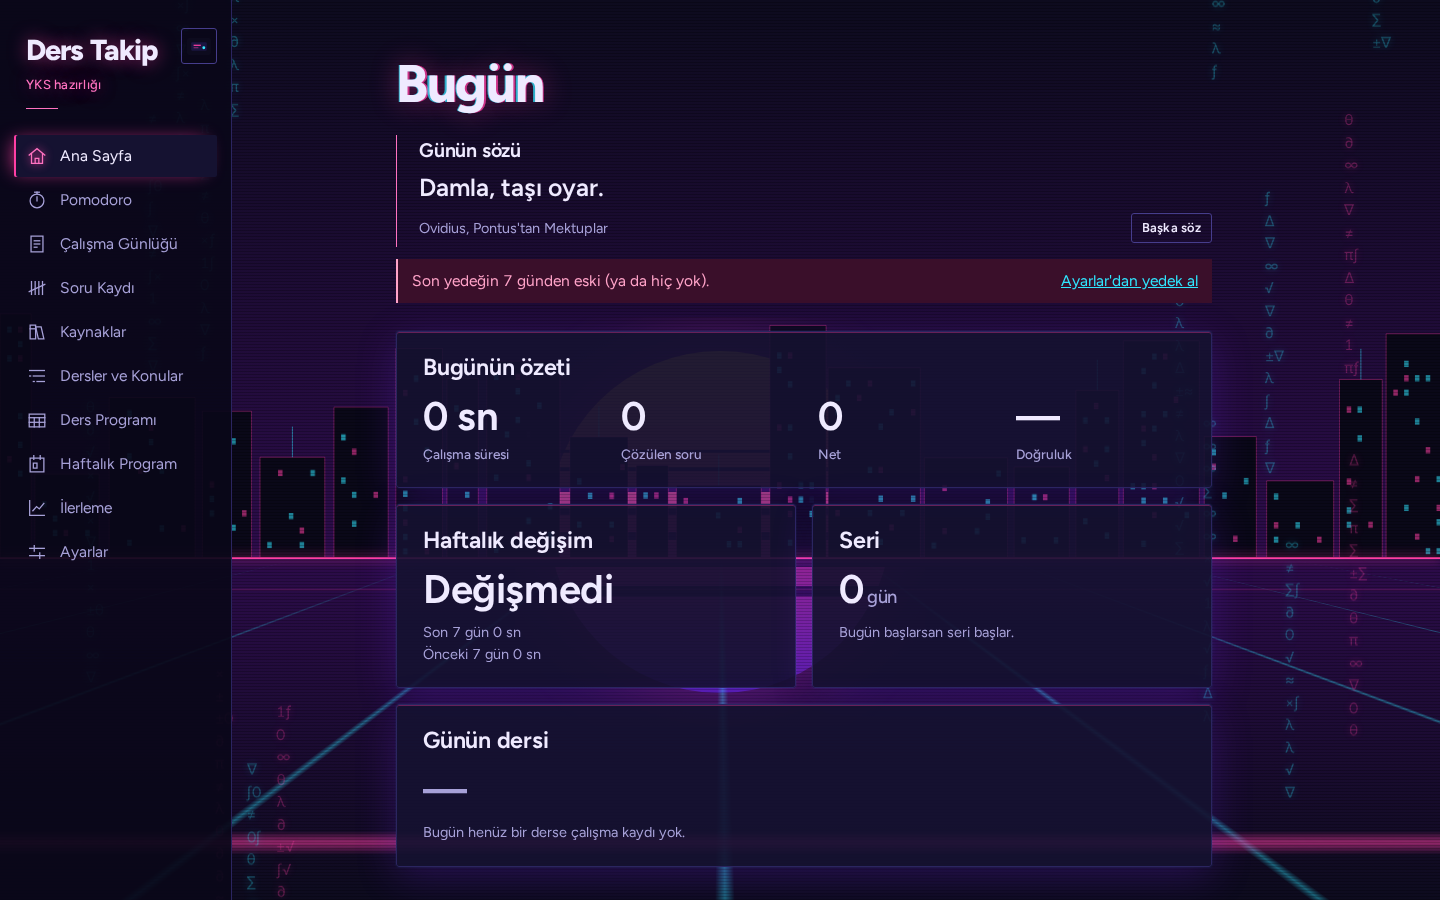
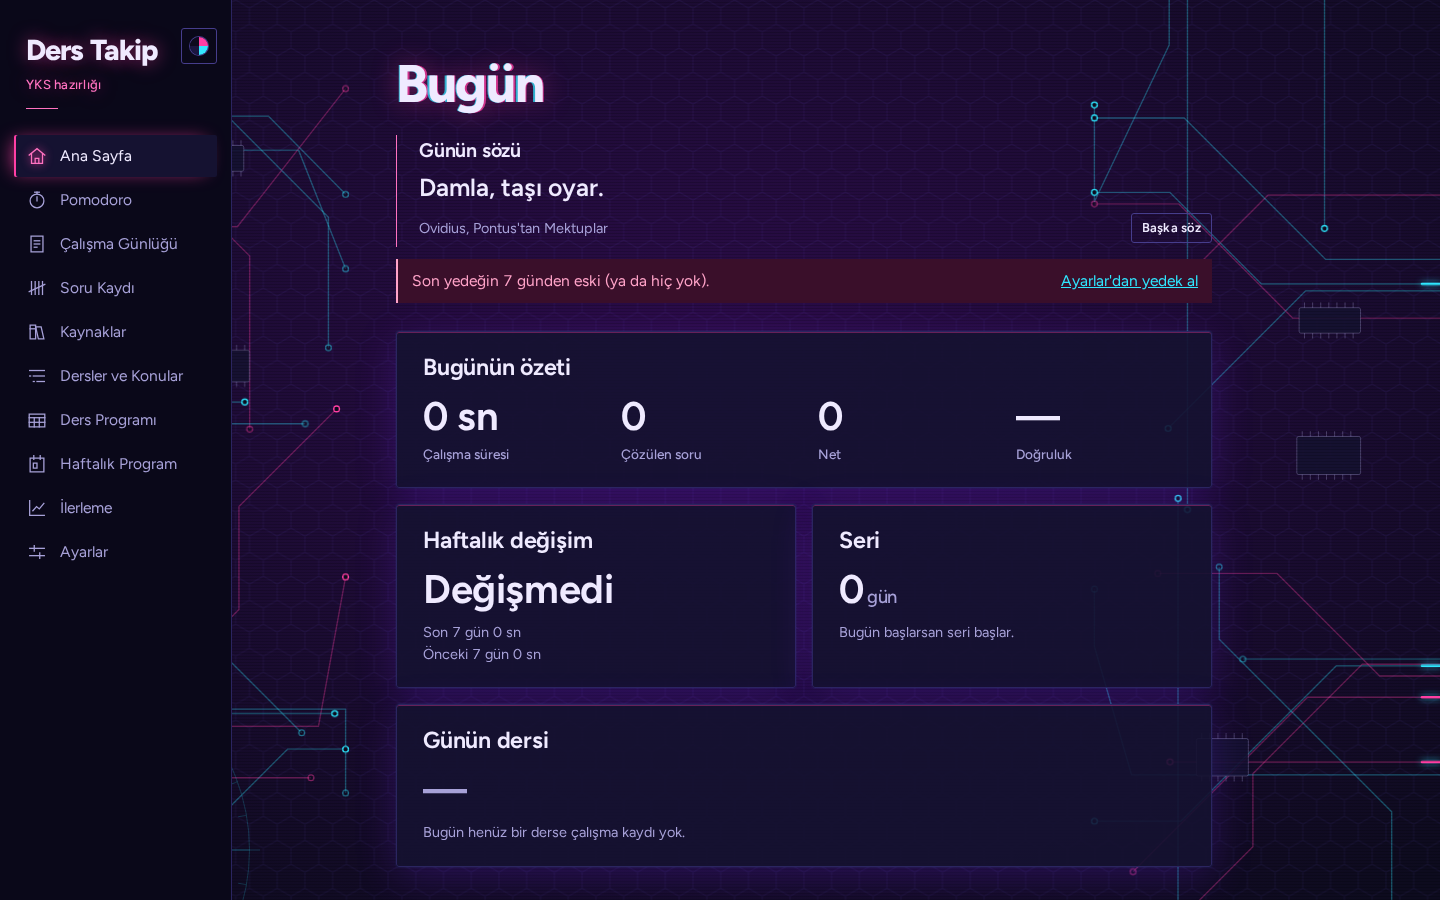
docs: yeni temalar, denemeler ve güvenlik notları
Claude-Session: https://claude.ai/code/session_01JevtdtGCnpPBVcnV2mfKpM

diff --git a/CLAUDE.md b/CLAUDE.md
@@ -85,5 +85,7 @@ Sunucusuz, tamamen statik bir web uygulaması (PWA olarak yayınlanacak): React 
 - **Çalışma hedefi:** `state.settings.track` (`yks`/`dgs`/`uni`, `client/src/lib/tracks.js`). Her dersin `track` alanı vardır; listeler ve istatistikler `activeSubjectIds` ile seçili hedefe süzülür. Hazır listeler `seedData.js` → `SEED_BY_TRACK`, göç `seed.js` → `prepareState`.
 - **Program:** saatler dakika olarak saklanır (08:30 = 510, gün sonu 1440; 5 dk adım). `classes` (ders programı) ve `plans` (haftalık bloklar) hedefe bağlıdır. Ders haftalık programa kopyalanmaz; haftalık sayfa iki tabloyu birlikte okur. Saf yardımcılar `client/src/lib/schedule.js`, uçlar `client/src/data/routes/schedule.js`.
 - **Temalar:** `dark` (Gece), `light` (Kâğıt), `neon`, `pastel` (`client/src/lib/theme.js` → `THEMES`; `index.html`'deki ilk betik de aynı listeyi taşır). Renkler yalnızca CSS değişkenlerinden: Gece `index.css :root`, Kâğıt `theme.css`, Neon/Pastel `themes.css`. Arka plan sahneleri `components/Backdrop.jsx` + `backdrop.css` (yalnızca transform/opacity canlandırılır, "hareketi azalt"ta durur).
+- **Denemeler / hedefler / tekrar:** deneme türleri ve soru sayıları  (), uçlar ; sınav tarihi (hedef başına) ve günlük hedef  /  (); konu bitirme ve 1-3-7-30 gün tekrarı konu kaydında , ,  ().
+- **Yedek dosyası güvenilmezdir:**  →  yalnızca bilinen alanları alır; yeni bir tabloya/alana veri eklenince şemaya da eklenmeli, yoksa yedekten geri yüklenmez. Güvenlik önlemleri .
 - **Odak sesleri:** nota üretimi saf ve testli (`lib/focusSound.js`), ses sentezi `lib/focusPlayer.js` (Web Audio, dosya yok).
 - Kapsam dışı: PDF'ten soru üretme (ileride).

diff --git a/README.md b/README.md
@@ -53,6 +53,10 @@ Kurulum yok, hesap yok. Veriler yalnızca senin tarayıcında durur, hiçbir sun
 | --- | --- |
 | ![Saat saat haftalık ızgara: taralı dersler, çalışma ve mola blokları](docs/screenshots/haftalik-program.png) | ![Telefonda tek gün görünümü](docs/screenshots/haftalik-telefon.png) |
 
+| Denemeler |
+| --- |
+| ![Deneme girişi, net grafiği ve geçmiş denemeler](docs/screenshots/denemeler.png) |
+
 | Ders programı |
 | --- |
 | ![Gün şeritleri: dersler ve boş zaman](docs/screenshots/ders-programi.png) |
@@ -63,7 +67,7 @@ Kurulum yok, hesap yok. Veriler yalnızca senin tarayıcında durur, hiçbir sun
 
 | Neon | Pastel |
 | --- | --- |
-| ![Neon teması: şehir silueti ve ızgara](docs/screenshots/tema-neon.png) | ![Pastel teması: Pomodoro](docs/screenshots/tema-pastel.png) |
+| ![Neon teması: devre kartı](docs/screenshots/tema-neon.png) | ![Pastel teması: çıkartma kartlar](docs/screenshots/tema-pastel.png) |
 
 | Açık tema | Hedef seçimi |
 | --- | --- |
